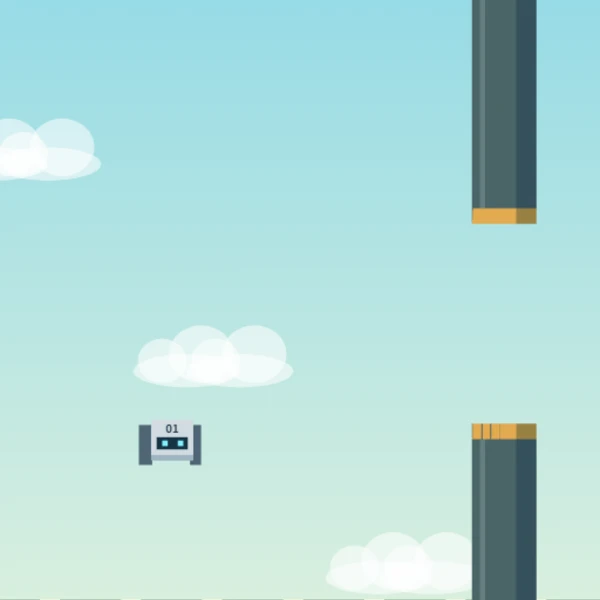
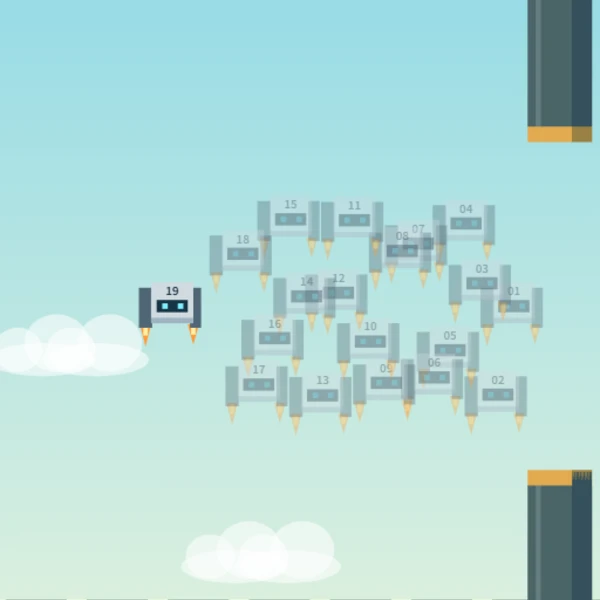
複数のロボが飛ぶサムネイルに更新

diff --git a/games/koe-balloon/index.html b/games/koe-balloon/index.html
@@ -547,6 +547,13 @@
     }
   };
 
+  // サムネ撮影時だけ、複数の履歴が飛んでいる場面を固定する。
+  window.__thumbnail=function(setup){
+    if(!setup||setup.scene!=="march")throw Error("未対応の撮影場面です");
+    window.__recordManual=true;newRound();T=2;py=H*.5;air=1;held=true;attemptNumber=19;lives=82;
+    history=Array.from({length:18},function(_,i){return {id:i+1,end:8,y:.5,worldX:3435,frames:Array.from({length:480},function(){return {y:.5+Math.sin(i*1.7)*.095,air:1};})};});
+    replayStep(0);gates=[{id:3,x:475,top:H*.5-145,bottom:H*.5+150,holes:[],danger:0}];distance=80;draw();
+  };
   /* ============ ループ ============ */
   var startButton=document.getElementById('start');
   // 開始画面は絵の外の余白も含め、指を離した時点で開始する。
